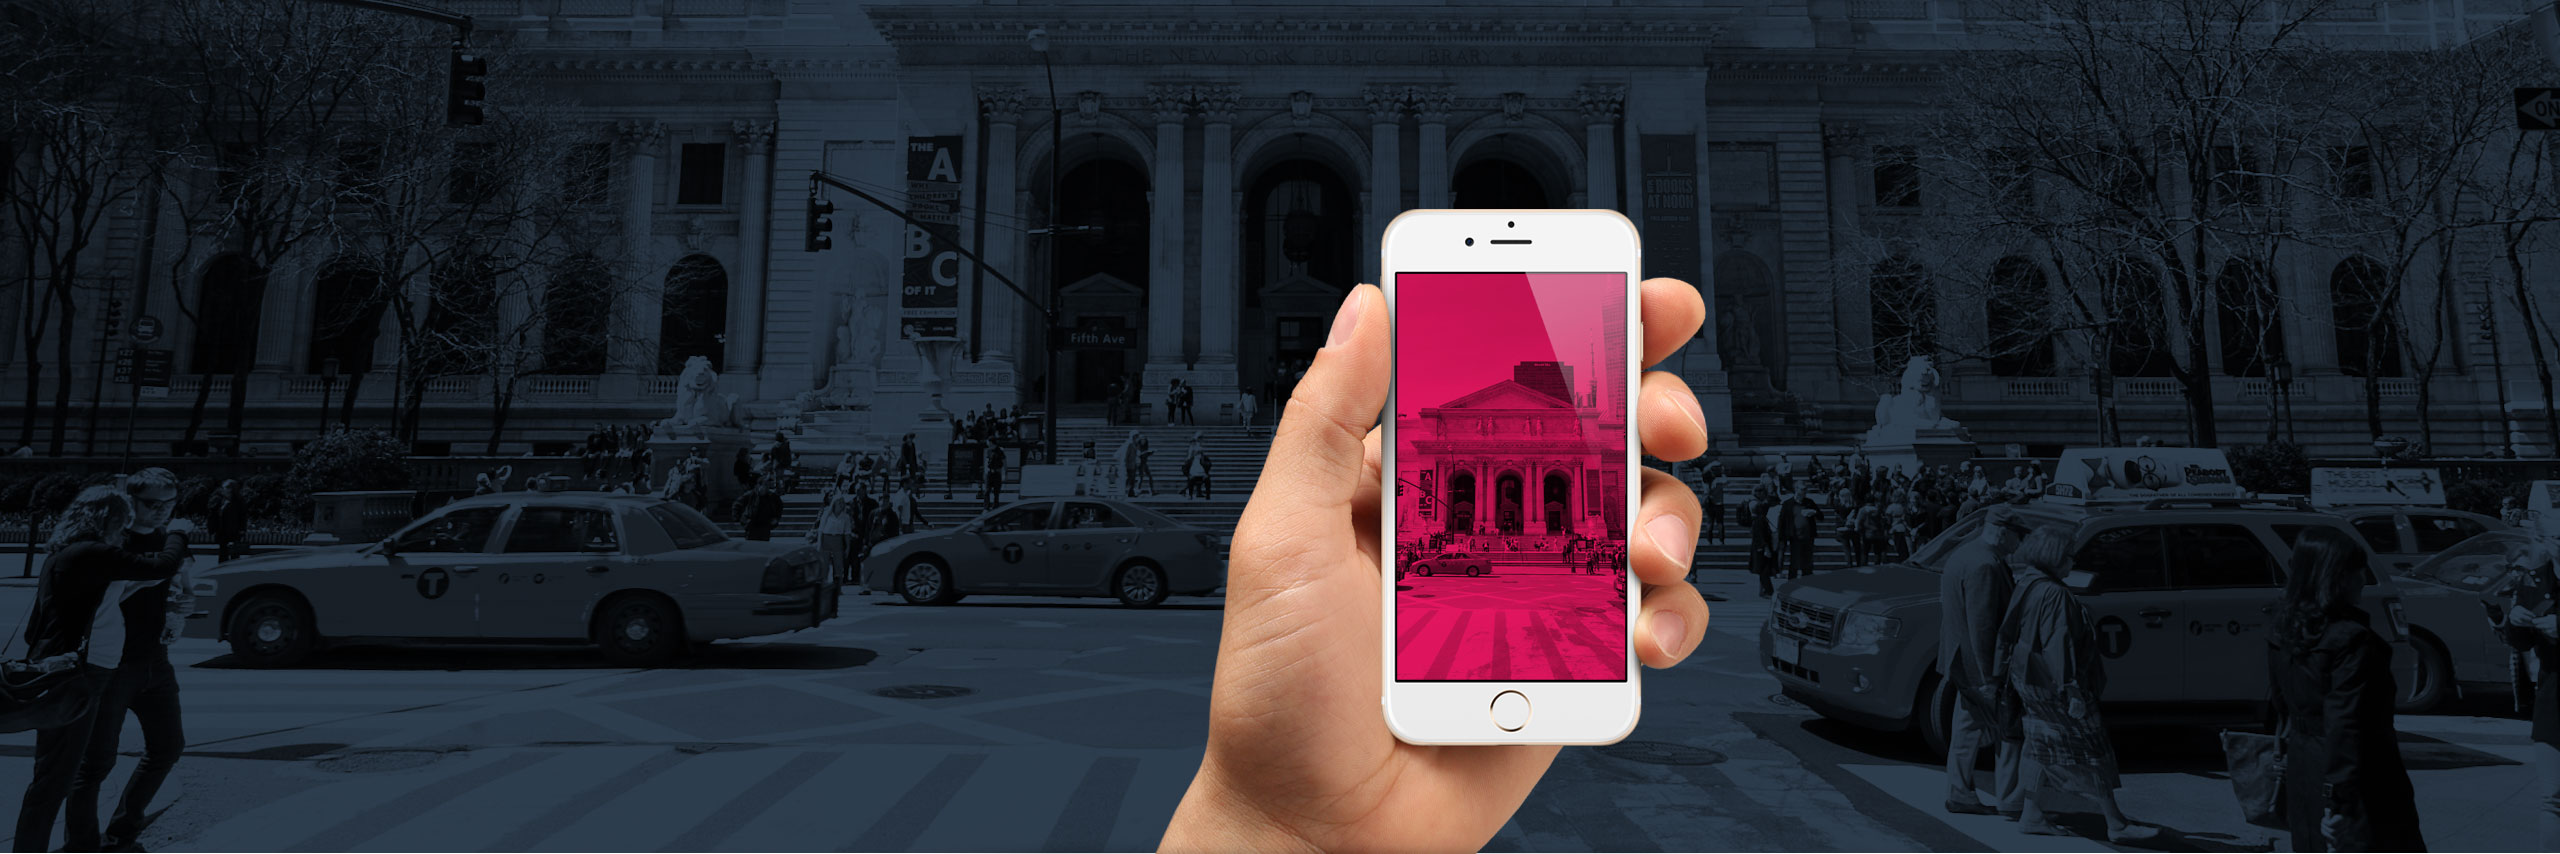
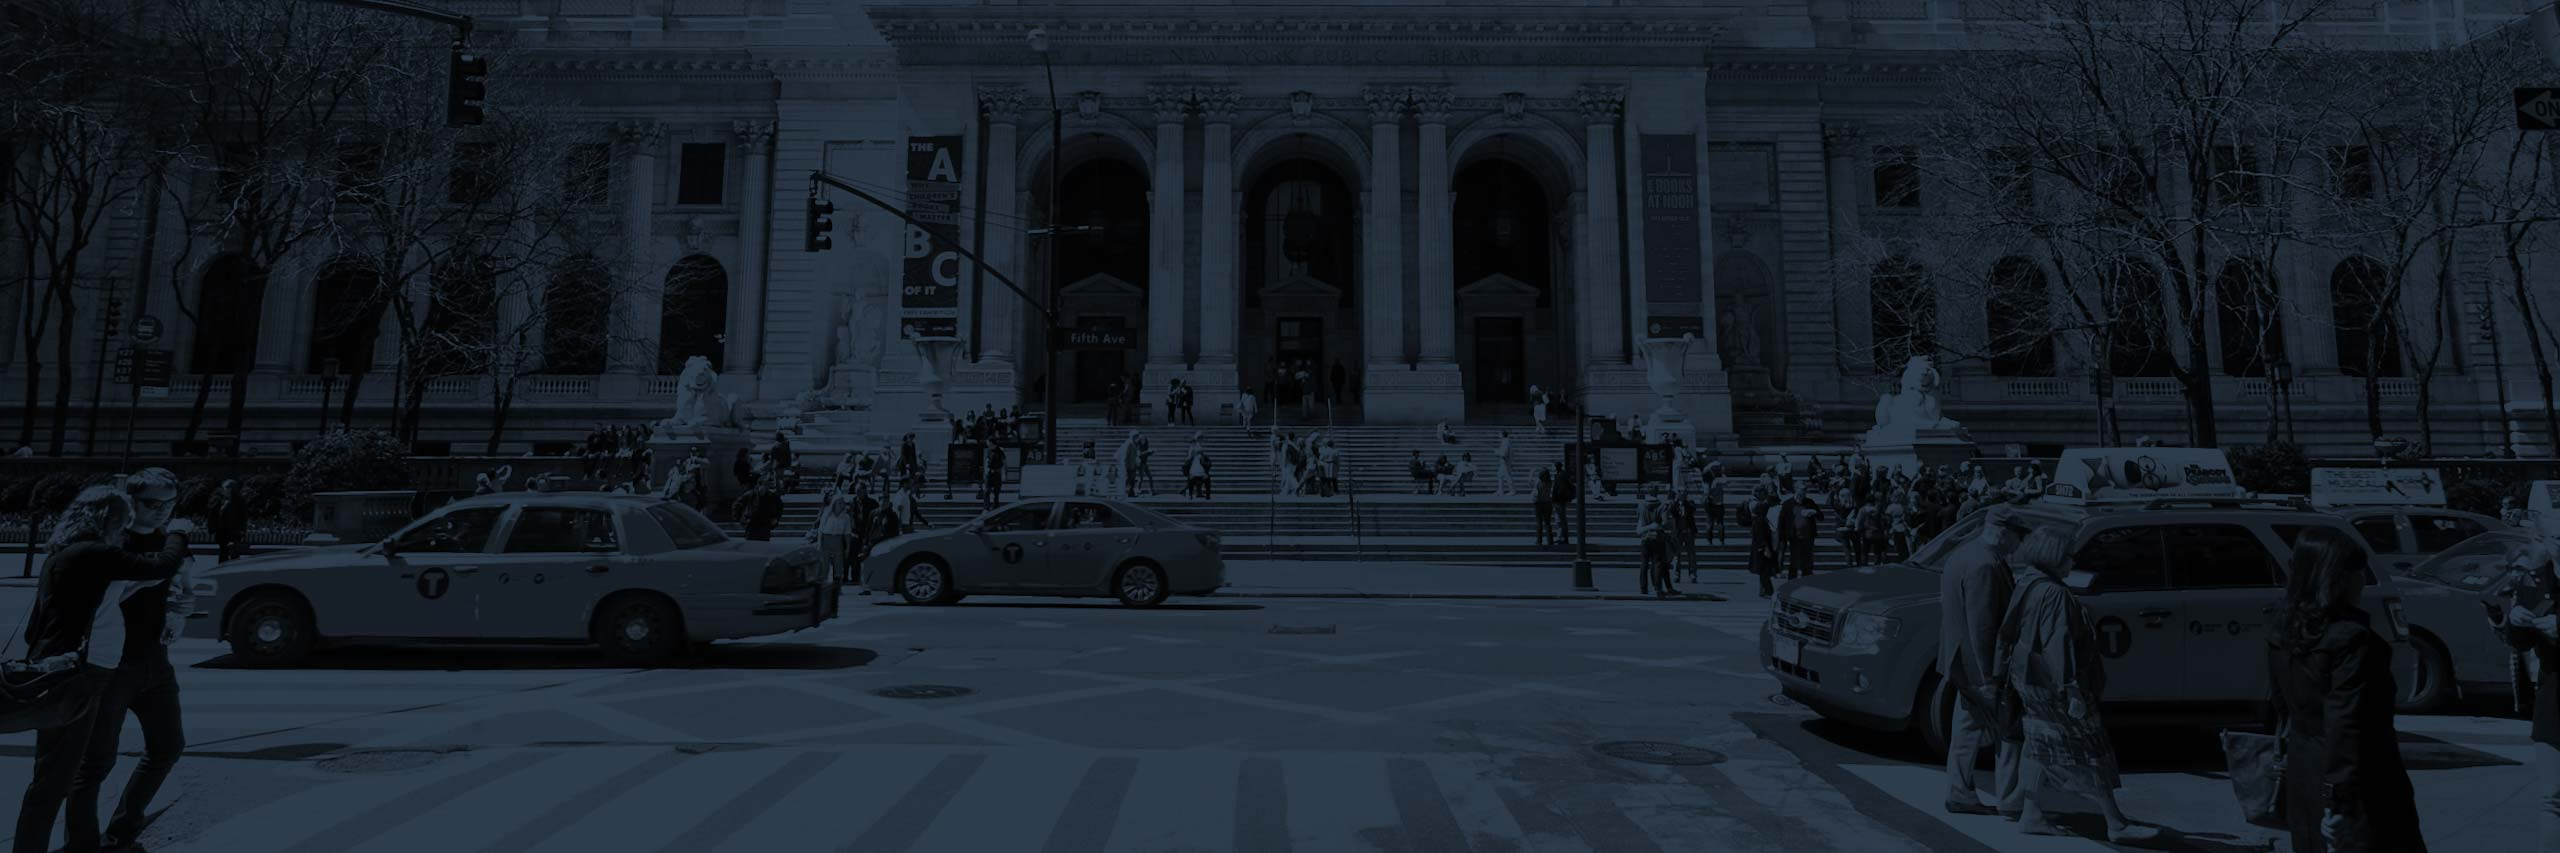
replaced the background image

Changed region(s): [[0.4375, 0.2438, 0.6875, 1.0]]

diff --git a/sass/blocks/download.scss b/sass/blocks/download.scss
@@ -159,8 +159,7 @@
 
 @media (min-width: $desktop-width) {
   .download {
-    padding-top: 219px;
-    padding-bottom: 118px;
+    padding: 0;
 
     background-image: url("../img/bg-download-desktop-1x.jpg");
     background-position: center top;
@@ -172,7 +171,19 @@
   }
 
   .download__wraper {
-    width: 300px;
+    width: 940px;
+    padding-top: 219px;
+    padding-bottom: 118px;
+    padding-right: 640px;
+
+    background-image: url("../img/iphone-hand-desktop-1x.png");
+    background-position: right 40px bottom -5px;
+    background-size: 555px auto, cover;
+    background-repeat: no-repeat;
+
+    @media (min-resolution: $retina-dpi), (min-resolution: $retina-dppx) {
+      background-image: url("../img/iphone-hand-desktop-2x.jpg");
+    }
   }
 
   .download__slogan {
